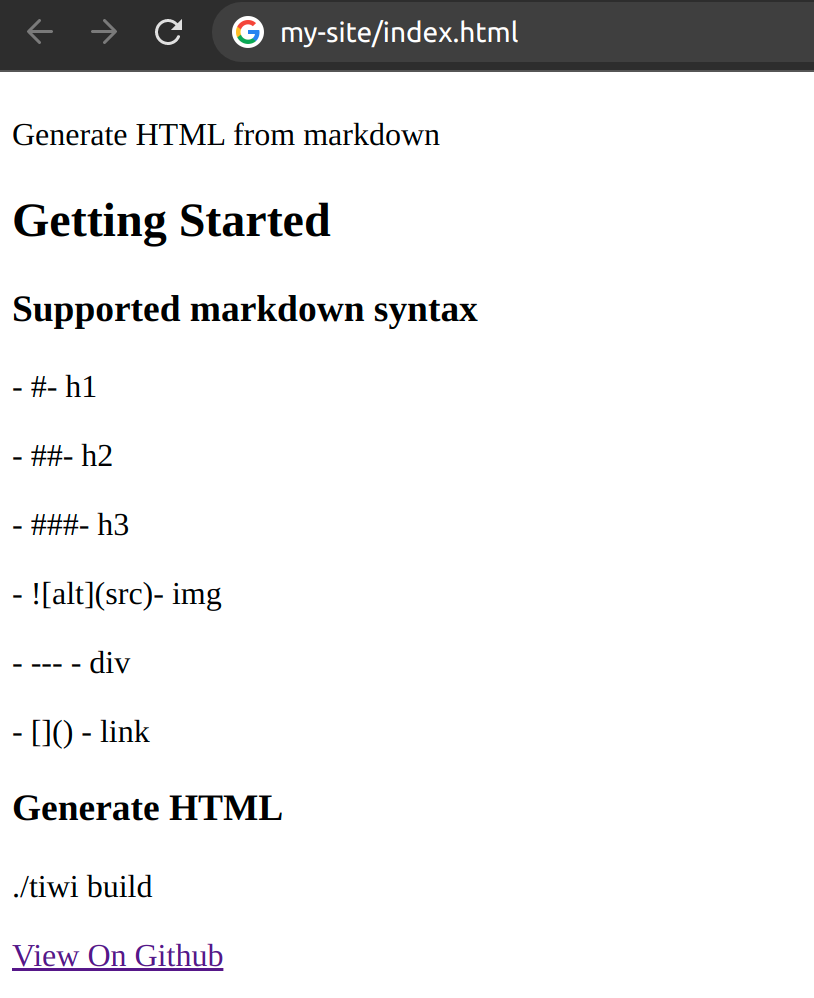
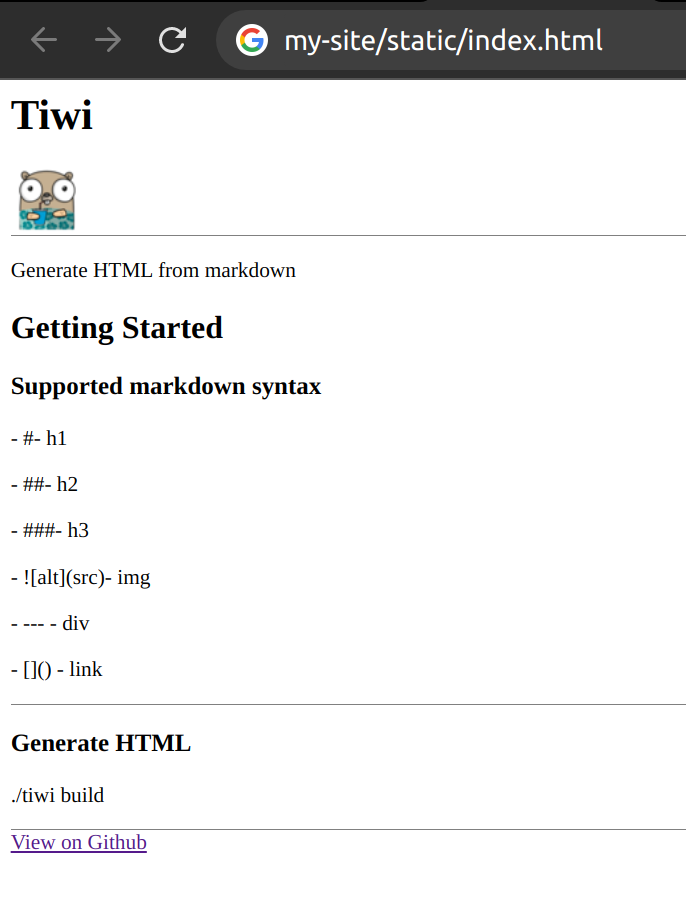
update default index file

Changed region(s): [[0.0, 0.1867, 0.5816, 0.84], [0.0, 0.0, 1.0, 0.1556], [0.0, 0.8711, 0.2755, 0.9956]]

diff --git a/pkg/create/create.go b/pkg/create/create.go
@@ -13,6 +13,9 @@ import (
 var DefaultPages = map[string]string{
 	"index": `
 # Tiwi
+![tiwi-logo](https://raw.githubusercontent.com/EdwinWalela/tiwi/main/docs/tiwi-mini.png)
+
+---
 
 Generate HTML from markdown
 
@@ -27,11 +30,13 @@ Generate HTML from markdown
 - --- - div
 - []() - link
 
+---
 
 ### Generate HTML
 
 ./tiwi build
 
+---
 
 [View on Github](https://github.com/EdwinWalela/tiwi)
 	`,

diff --git a/my-site/index.md b/my-site/index.md
@@ -1,11 +1,10 @@
 
-![tiwi](https://raw.githubusercontent.com/EdwinWalela/tiwi/main/docs/tiwi-mini.png)
-
 # Tiwi
-
-Generate HTML from markdown
+![tiwi-logo](https://raw.githubusercontent.com/EdwinWalela/tiwi/main/docs/tiwi-mini.png)
 
 ---
+
+Generate HTML from markdown
 
 ## Getting Started
 
@@ -25,7 +24,6 @@ Generate HTML from markdown
 ./tiwi build
 
 ---
-
 
 [View on Github](https://github.com/EdwinWalela/tiwi)
 	
